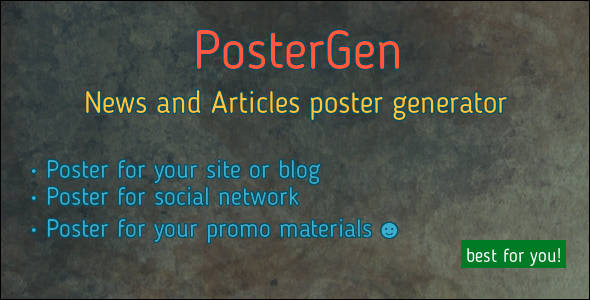
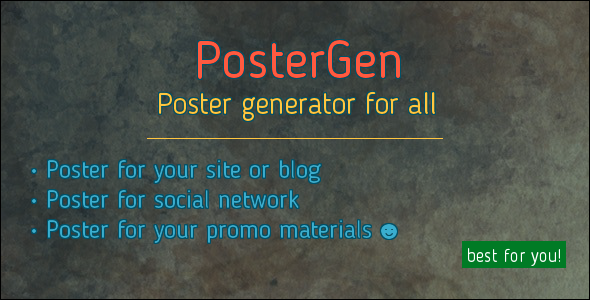
v0.6.0

diff --git a/src/Draw.php b/src/Draw.php
@@ -8,7 +8,7 @@ trait Draw
 	 */
 	protected function strokeText( $image, $values, $position, $color, $size )
 	{
-		if( $size <= 0 || $color === '' ) { return; }
+		if( $size <= 0 || $color === '' ) { return $this; }
 
 		$x = $position[ 'x' ]; 
 		$y = $position[ 'y' ];
@@ -20,6 +20,23 @@ trait Draw
 				$this->drawInternal( $image, $values, [ 'x' => $c1, 'y' => $c2 ], $color );
 			}
 		}
+
+		return $this;
+	}
+
+	/**
+	 * @todo: https://stackoverflow.com/questions/14741622/underline-text-using-imagettftext
+	 */
+	protected function drawLine( $image, $position, $color )
+	{
+		$colorAllocate = $this->createColor( $image, $color );
+
+		imageLine( $image, 
+					$position[ 'x1' ], 
+					$position[ 'y1' ], 
+					$position[ 'x2' ], 
+					$position[ 'y2' ], 
+					$colorAllocate );
 
 		return $this;
 	}
@@ -113,7 +130,7 @@ trait Draw
 		//
 		imageFillToBorder( $image, 0, 0, $bgColor, $bgColor );
 
-		// Bacground Gradient
+		// Background Gradient
 		if( is_array( $this->backgroundGradient ) && count( $this->backgroundGradient ) > 0 )
 		{
 			$this->imageFillGradient( $image, $this->backgroundGradient );
@@ -225,51 +242,88 @@ trait Draw
 				$shadow = $value[ 'shadow' ];
 
 				//
-				if( !empty( $value[ 'text' ] ) )
+				if( empty( $value[ 'text' ] ) ) 
 				{
-					// Stroke text
-					if( is_array( $stroke ) && count( $stroke ) > 0  )
-					{
-						$this->strokeText( $image, 
-											$value, 
-											[ 
-												'x' => $left, 
-												'y' => $top 
-											], 
-											$stroke[ 'color' ], 
-											$stroke[ 'size' ] );
-					}
+					continue;
+				}
 
-					// Shadow
-					if( is_array( $shadow ) && count( $shadow ) > 0 )
-					{
-						$this->drawInternal( $image, 
-											$value,
-											[ 
-												'x' => $left + array_get( $shadow, 'offset.x', 0 ), 
-												'y' => $top + array_get( $shadow, 'offset.y', 0 ) 
-											], 
-											$shadow[ 'color' ] );
-					}
+				//
+				if( $value[ 'text' ] === '-' )
+				{
+					$separatorWidth = $this->size[ 'width' ] / 2;
+					// $separatorLeft = ( $this->size[ 'width' ] - $separatorWidth ) / 2;
 
-					// Background
-					if( is_array( $value[ 'background' ] ) && !empty( $value[ 'background' ][ 'color' ] ) )
-					{
-						$this->drawBackground( $image, 
-												[ 
-													'x' => $left,
-													'x1' => $left, 
-													'x2' => $left + $value[ 'size' ][ 'width' ], 
-													'y' => $top, 
-													'y1' => $top - $value[ 'coordinate' ][ 'y' ], 
-													'y2' => $top - $value[ 'size' ][ 'height' ],
-													'height' => $value[ 'size' ][ 'height' ],
-													'width' => $value[ 'size' ][ 'width' ] 
-												], 
-												$value[ 'background' ][ 'color' ], 
-												$value[ 'background' ][ 'transparent'],
-												$value[ 'angle' ] );
-					}
+					if( $horizontalAlignment === 'center' ) { $separatorLeft = ( $this->size[ 'width' ] - $separatorWidth ) / 2; }
+					else if( $horizontalAlignment === 'right' ) { $separatorLeft = ( $this->size[ 'width' ] - $separatorWidth ) - $this->horizontalPadding; }
+					else { $separatorLeft = $this->horizontalPadding; }
+
+					$this->drawLine( $image, 
+									[
+										'x1' => $separatorLeft, 
+										'x2' => $separatorLeft + $separatorWidth, 
+										'y1' => $top - $value[ 'coordinate' ][ 'y' ] - ( $value[ 'size' ][ 'height' ] / 2 ),
+										'y2' => $top - $value[ 'coordinate' ][ 'y' ] - ( $value[ 'size' ][ 'height' ] / 2 ),
+									],
+									$value[ 'color' ] );
+
+					continue;
+				}
+			
+				// Underline text
+				if( is_array( $value[ 'style' ] ) && in_array( 'underline', $value[ 'style' ] ) )
+				{
+					$this->drawLine( $image, 
+									[
+										'x1' => $left, 
+										'x2' => $left + $value[ 'size' ][ 'width' ], 
+										'y1' => $top - $value[ 'coordinate' ][ 'y' ] + 2, 
+										'y2' => $top - $value[ 'coordinate' ][ 'y' ] + 2
+									],
+									$value[ 'color' ] );
+				}
+
+				// Stroke text
+				if( is_array( $stroke ) && count( $stroke ) > 0  )
+				{
+					$this->strokeText( $image, 
+										$value, 
+										[ 
+											'x' => $left, 
+											'y' => $top 
+										], 
+										$stroke[ 'color' ], 
+										$stroke[ 'size' ] );
+				}
+
+				// Shadow
+				if( is_array( $shadow ) && count( $shadow ) > 0 )
+				{
+					$this->drawInternal( $image, 
+										$value,
+										[ 
+											'x' => $left + array_get( $shadow, 'offset.x', 0 ), 
+											'y' => $top + array_get( $shadow, 'offset.y', 0 ) 
+										], 
+										$shadow[ 'color' ] );
+				}
+
+				// Background
+				if( is_array( $value[ 'background' ] ) && !empty( $value[ 'background' ][ 'color' ] ) )
+				{
+					$this->drawBackground( $image, 
+											[ 
+												'x'	=> $left,
+												'x1' => $left, 
+												'x2' => $left + $value[ 'size' ][ 'width' ], 
+												'y' => $top, 
+												'y1' => $top - $value[ 'coordinate' ][ 'y' ], 
+												'y2' => $top - $value[ 'size' ][ 'height' ],
+												'height' => $value[ 'size' ][ 'height' ],
+												'width' => $value[ 'size' ][ 'width' ] 
+											], 
+											$value[ 'background' ][ 'color' ], 
+											$value[ 'background' ][ 'transparent'],
+											$value[ 'angle' ] );
 				}
 
 				// Draw text
@@ -280,6 +334,19 @@ trait Draw
 										'y' => $top
 									], 
 									$value[ 'color' ] );
+
+				// Strike text
+				if( is_array( $value[ 'style' ] ) && in_array( 'strike', $value[ 'style' ] ) )
+				{
+					$this->drawLine( $image,
+									[
+										'x1' => $left,
+										'x2' => $left + $value[ 'size' ][ 'width' ],
+										'y1' => $top - $value[ 'coordinate' ][ 'y' ] - ( $value[ 'size' ][ 'height' ] / 2 ),
+										'y2' => $top - $value[ 'coordinate' ][ 'y' ] - ( $value[ 'size' ][ 'height' ] / 2 ),
+									],
+									$value[ 'color' ] );
+				}
 			}
 		}
 

diff --git a/src/PosterGen.php b/src/PosterGen.php
@@ -7,7 +7,7 @@ class PosterGen
 	use Utils;
 	use Draw;
 
-	function __construct( /*array*/ $options = [ ] )
+	function __construct( array $options = [ ] )
 	{
 
 	}
@@ -31,13 +31,14 @@ class PosterGen
 	/**
 	 * 
 	 */
-	function addText( /*string*/ $text, /*string*/ $font = '', /*int*/ $size = 0, /*string*/ $color = '', /*array*/ $values = [ ] )
+	function addText( /*string*/ $text, /*string*/ $font = '', /*int*/ $size = 0, /*string*/ $color = '', array $style = [ ], array $values = [ ] )
 	{
 		// Font params
 		$font = ( !empty( $font ) ? $font : $this->font );
 		$font .= empty( pathinfo( $font )[ 'extension' ] ) ? '.ttf' : '';
 		$color = ( !empty( $color ) ? $color : $this->fontColor );
 		$size = ( $size > 0 ? $size : $this->fontSize );
+		$style = ( !empty( $style ) ? $style : $this->fontStyle );
 
 		// Angle
 		$angle = array_get( $values, 'angle', 0 );
@@ -61,6 +62,7 @@ class PosterGen
 			'font'			=> $font,
 			'font-size'		=> $size,
 			'color'			=> $color,
+			'style'			=> $style,
 			'stroke'		=> [ 
 				'color' 	=> $this->strokeColor,
 				'size'		=> $this->strokeSize
@@ -115,7 +117,7 @@ class PosterGen
 	/**
 	 * 
 	 */
-	private function addTextLine( /*string*/ $text, /*array*/ $values = [ ] )
+	private function addTextLine( /*string*/ $text, array $values = [ ] )
 	{
 		// Calculate coordinates
 		$coordinate = $this->calculateTextCoordinates( $text, $values[ 'font-size' ], $values[ 'position' ], $values[ 'color' ], $values[ 'angle' ], $values[ 'font' ] );
@@ -139,7 +141,7 @@ class PosterGen
 	/**
 	 * 
 	 */
-	function addImage( /*string*/ $image, /*array*/ $values = [ ] )
+	function addImage( /*string*/ $image, array $values = [ ] )
 	{
 		if( !file_exists( $image ) )
 		{
@@ -185,6 +187,20 @@ class PosterGen
 		array_push( $this->objectList, $data );
 		
 		return $this;
+	}
+
+	/**
+	 * 
+	 */
+	function addSeparator( /*string*/ $color = '', /* string */ $align = 'center' )
+	{
+		$values = [
+			'position' => [
+				'horizontal-alignment' => $align
+			]
+		];
+
+		return $this->addText( '-', '', 0, $color, [ ], $values );
 	}
 
 	/**

diff --git a/src/Options.php b/src/Options.php
@@ -9,6 +9,7 @@ trait Options
 	protected $font = '';
 	protected $fontColor = '#000000';
 	protected $fontSize = 14;
+	protected $fontStyle = [ ];
 	protected $linePadding = 8;
 
 	protected $backgroundImage = '';
@@ -40,7 +41,7 @@ trait Options
 
 	protected $objectList = [ ];
 
-	function __construct( /*array*/ $options = [ ] )
+	function __construct( array $options = [ ] )
 	{
 
 	}
@@ -97,6 +98,13 @@ trait Options
 		return $this;
 	}
 
+	function setFontStyle( array $value )
+	{
+		$this->fontStyle = $value;
+
+		return $this;
+	}
+
 	function setFontShadow( $color, /*int*/ $x = 0, /*int*/ $y = 0 )
 	{
 		$this->shadowColor = $color;
@@ -134,7 +142,7 @@ trait Options
 		return $this;
 	}
 
-	function setBackgroundImage( /*string*/ $image, /*int*/ $transparent = 0, $filter = 'none' )
+	function setBackgroundImage( /*string*/ $image, /*int*/ $transparent = 0 )
 	{
 		if( file_exists( $image )
 			|| ( filter_var( $image, FILTER_VALIDATE_URL ) && @get_headers( $image )[0] !== 'HTTP/1.0 404 Not Found' ) ) 
@@ -157,7 +165,7 @@ trait Options
 		return $this;
 	}
 
-	function setBackgroundGradient( /*array*/ $colors )
+	function setBackgroundGradient( array $colors )
 	{
 		$this->backgroundGradient = $colors;
 

diff --git a/demo/demo.php b/demo/demo.php
@@ -51,7 +51,7 @@
 						//
 						->setFontSize( 12 )
 						->setFontColor( '#FFC640' )
-						//->addText( 'Poster' )
+						->addText( 'Poster' )
 						->addText( 'generator' );
 
 			echo $poster0->saveToBase64Image( );
@@ -82,7 +82,9 @@
 						//
 						->setFontSize( 23 )
 						->setFontColor( '#FFC640' )
-						->addText( 'News and Articles poster generator' )
+						->addText( 'Poster generator for all' )
+						//
+						->addSeparator( '', 'center' )
 						//
 						->setHorizontalAlignment( 'left' )
 						->setVerticalAlignment( 'bottom' )
@@ -97,7 +99,7 @@
 						->setVerticalAlignment( 'bottom' )
 						->setFontSize( 14 )
 						->setFontColor( '#FFFFFF' )
-						->addText( 'best for you!', '', 0, '', [] );
+						->addText( 'best for you!', '', 0, '', [ ], [ ] );
 
 			echo $poster1->saveToBase64Image( );
 		?>
@@ -250,7 +252,7 @@
 			 */
 			$poster6 = ( new \PosterGen\PosterGen( [ ] ) )
 						->setSize( 350, 200 )
-						->setBackgroundGradient( [ '#FF5A40', '#007B25', '#FFC640' ] )
+						->setBackgroundGradient( [ '#FF5A40', '#007B25', '#FFC640', '#007B25' ] )
 						->setFontColor( '#FFFFFF' )
 						->setFontSize( 24 )
 						->setFontStroke( '#007B25' )

diff --git a/src/Utils.php b/src/Utils.php
@@ -151,8 +151,9 @@ trait Utils
 				hexdec( substr( $colors[ $i ], 5, 2 ) )
 			];
 		}
-	
-		$rgb = $colors[0]; // start with top left color
+
+		// Start with top left color
+		$rgb = $colors[ 0 ]; 
 
 		for( $x = 0; $x <= $width; $x++ ) 
 		{
@@ -174,7 +175,7 @@ trait Utils
 			}
 		}
 
-		// return $image;
+		return $image;
 	}
 
 	/**

diff --git a/CHANGELOG.md b/CHANGELOG.md
@@ -1,0 +1,8 @@
+### 0.6.0
+* Add text `style`: `underline`, `strike`.
+* Add `addSeparator` function - for horizontal separation.
+* Add `setBackgroundGradient` function - for background gradient.
+* Add multi-line text support.
+
+### 0.5.0
+* First version
